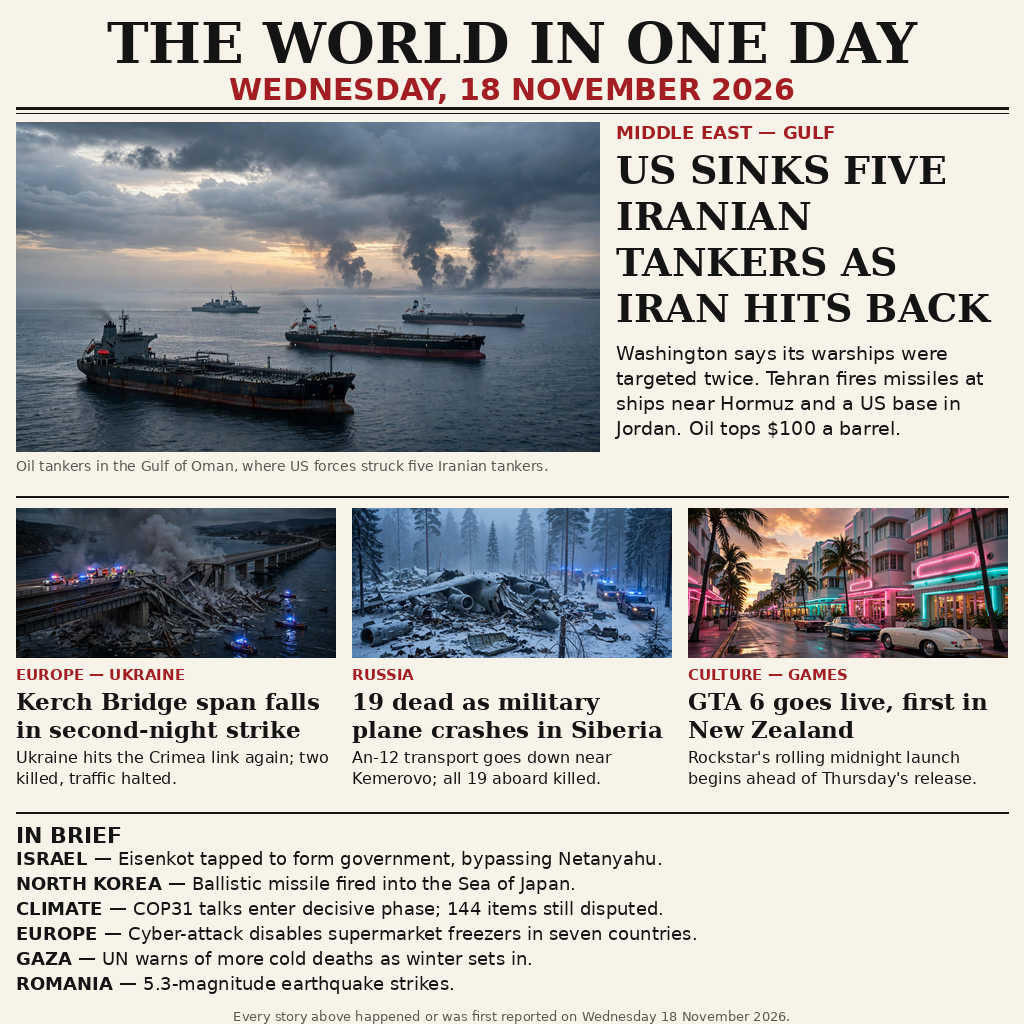
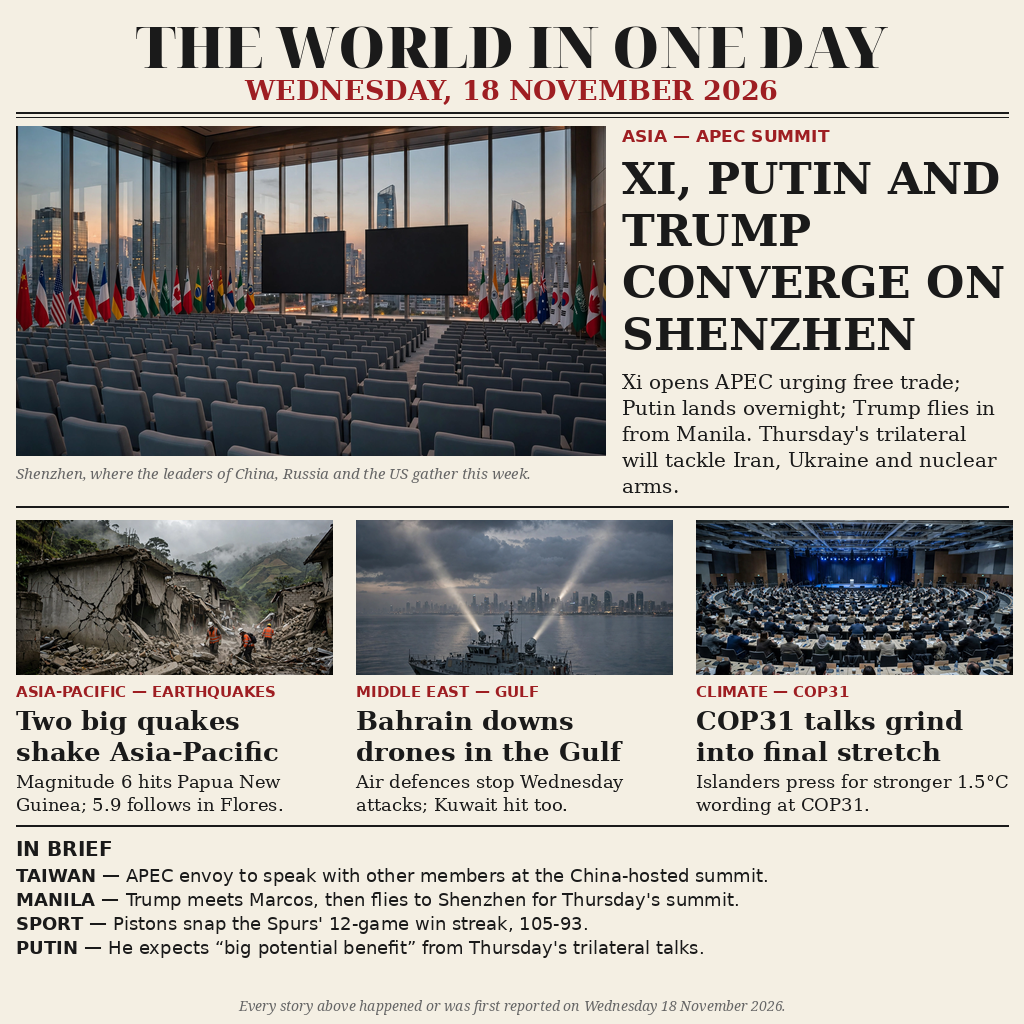
Rebuild front page with date-verified 18 Nov 2026 stories
First build carried wrong-dated stories (Sept tanker strikes, 17 Nov
Kerch/An-12/Gaza items, GTA 6 launch preview). Replaced with stories
verified on primary outlets for 18 Nov: APEC Shenzhen trilateral eve
(Reuters 2026-11-18), twin PNG/Flores quakes (Reuters 2026-11-18),
Bahrain drone interceptions (Reuters wire, 18 Nov 00:16 UTC), COP31
(PINA 2026/11/18), plus verified briefs.

diff --git a/README.md b/README.md
@@ -4,7 +4,7 @@
 [![rank](https://make.fun/badge/news-image-20261118/Jesseliverse01/news-image-20261118/rank.svg)](https://make.fun/bounty/news-image-20261118/leaderboard?utm_source=github&utm_medium=readme&utm_campaign=news-image-20261118)
 [![reward](https://make.fun/badge/news-image-20261118/Jesseliverse01/news-image-20261118/reward.svg)](https://make.fun/bounty/news-image-20261118?utm_source=github&utm_medium=readme&utm_campaign=news-image-20261118)
 
-A one-page newspaper front page summing up Wednesday 18 November 2026: the US–Iran tanker strikes in the Gulf, Ukraine's second-night hit on the Kerch Bridge, a deadly Russian military plane crash in Siberia, GTA 6 going live first in New Zealand, and the day's other top stories from Israel, North Korea, COP31, Europe and Gaza — all in one picture.
+A one-page newspaper front page summing up Wednesday 18 November 2026: Xi, Putin and Trump converging on Shenzhen for the APEC summit and Thursday's trilateral; twin earthquakes in Papua New Guinea and Indonesia's Flores; Bahrain's air defences downing Iranian drones; COP31 talks grinding into their final stretch — plus briefs from Taiwan, Manila, the NBA and Putin — all in one picture.
 
 ## Run it
 
